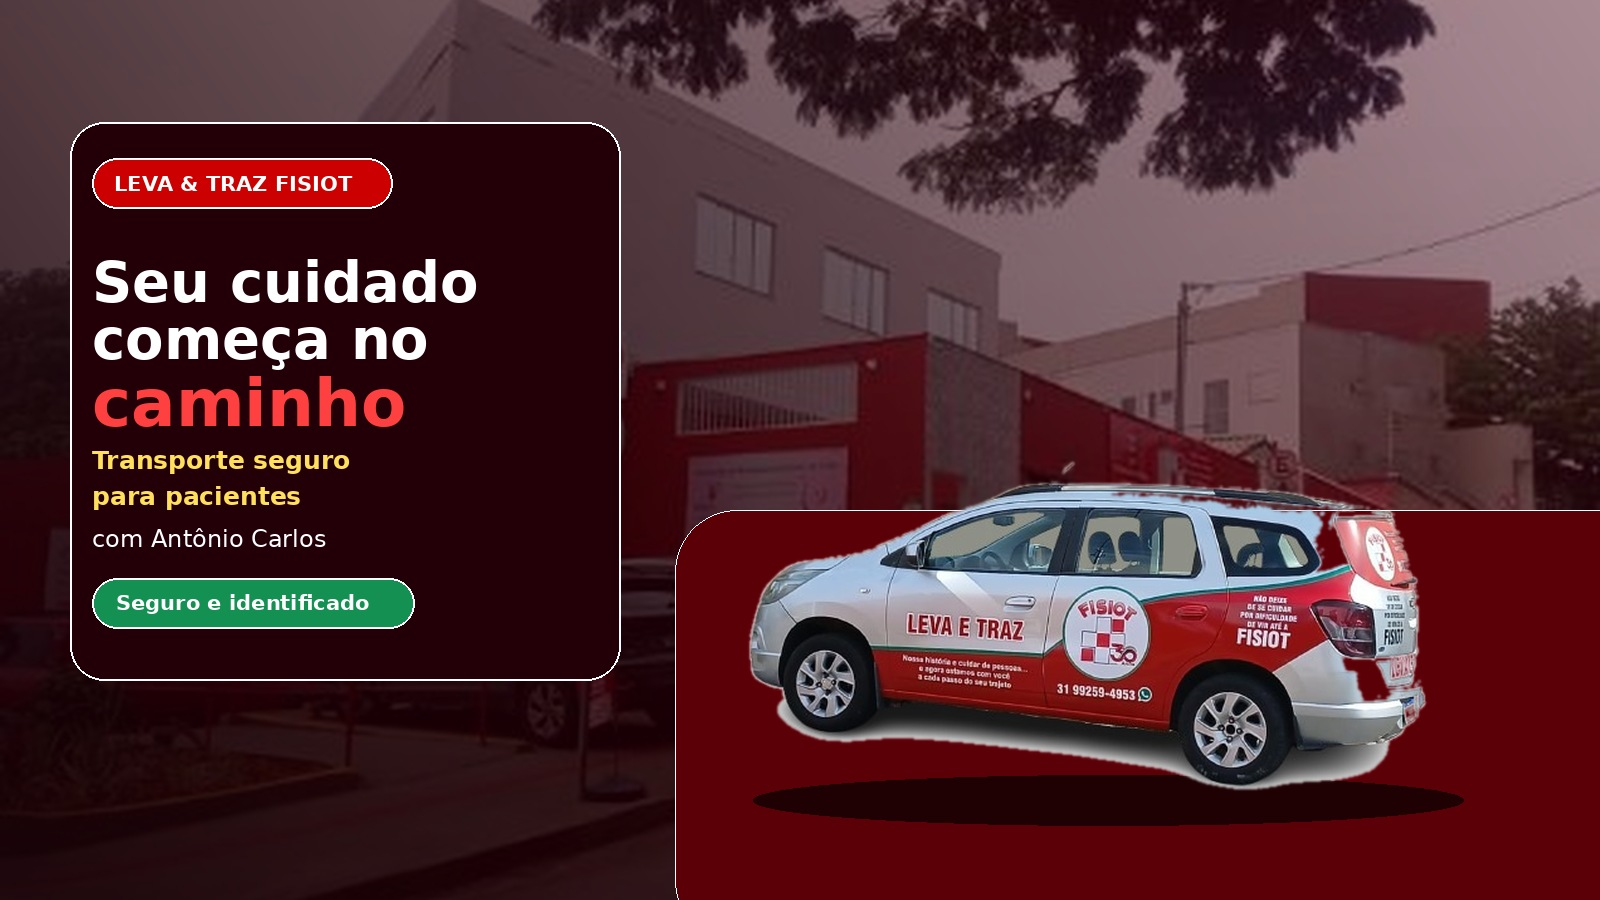
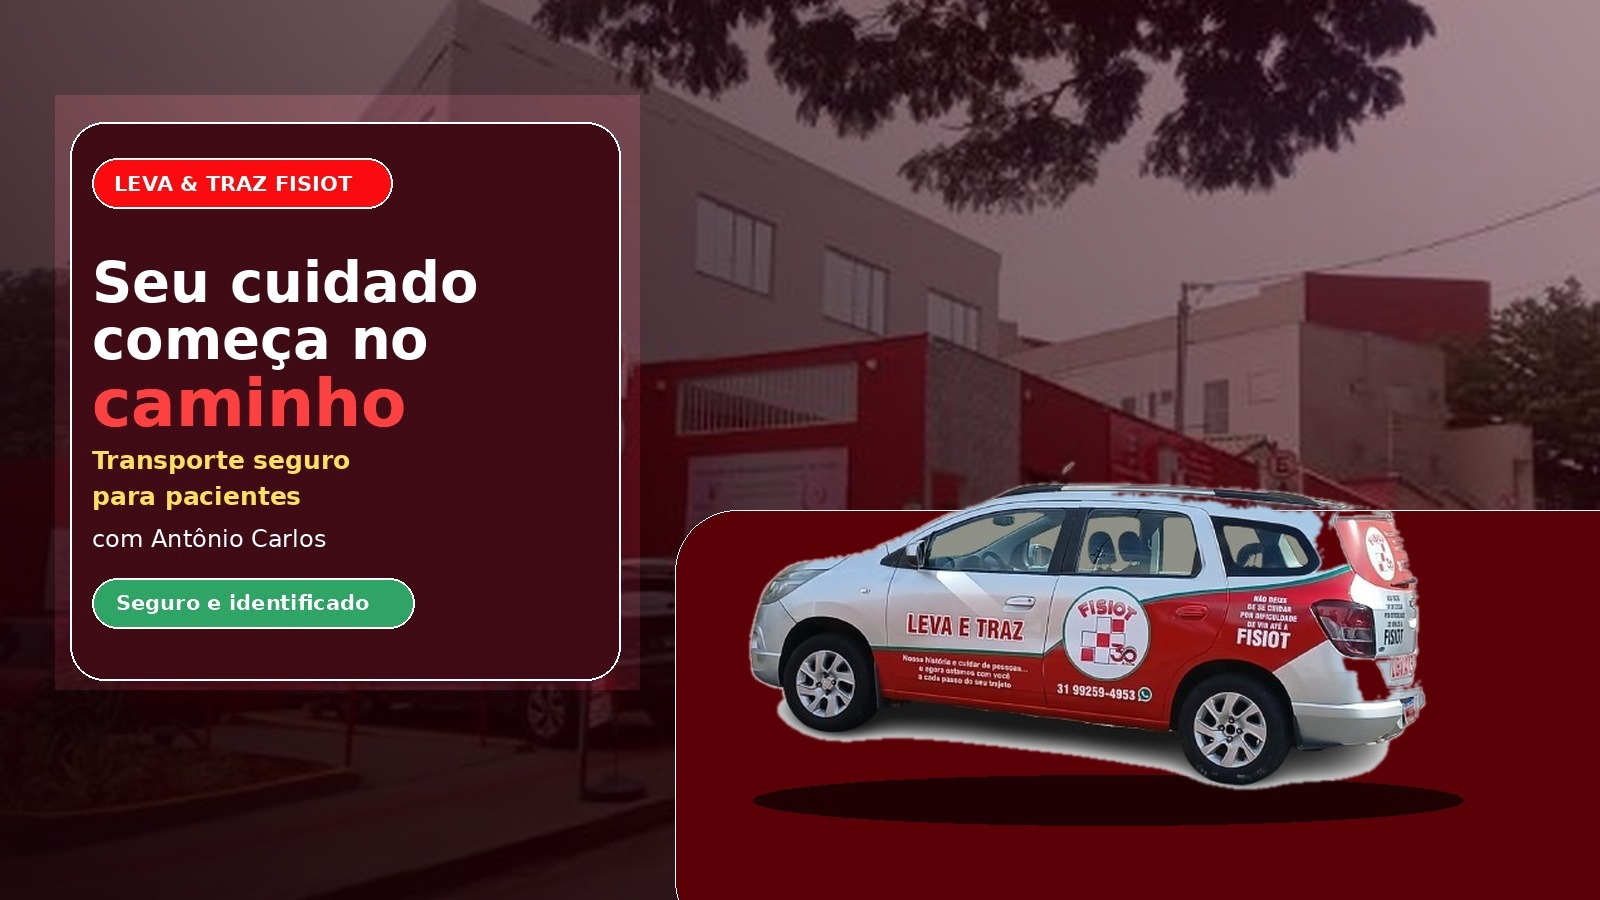
Clareia capa e restaura pneus Leva Traz

Changed region(s): [[0.0312, 0.0933, 0.4062, 0.7778]]

diff --git a/leva-traz/index.html b/leva-traz/index.html
@@ -103,8 +103,8 @@ body{font-family:'Inter',sans-serif;background:#0a0005;color:#fff;min-height:100
 <div class="hero">
   <div class="hero-cover">
     <picture>
-      <source media="(max-width: 680px)" srcset="capa-fisiot-leva-traz-mobile.jpg?v=20260608k"/>
-      <img src="capa-fisiot-leva-traz-desktop.jpg?v=20260608k" alt="Capa Leva &amp; Traz FISIOT com fachada da clínica e Chevrolet Spin identificado"/>
+      <source media="(max-width: 680px)" srcset="capa-fisiot-leva-traz-mobile.jpg?v=20260608l"/>
+      <img src="capa-fisiot-leva-traz-desktop.jpg?v=20260608l" alt="Capa Leva &amp; Traz FISIOT com fachada da clínica e Chevrolet Spin identificado"/>
     </picture>
   </div>
 </div>

diff --git a/leva-traz/sw.js b/leva-traz/sw.js
@@ -1,4 +1,4 @@
-const CACHE_NAME = 'leva-traz-v20260608k';
+const CACHE_NAME = 'leva-traz-v20260608l';
 const urlsToCache = ['/manifest.json'];
 
 self.addEventListener('install', function(e) {
